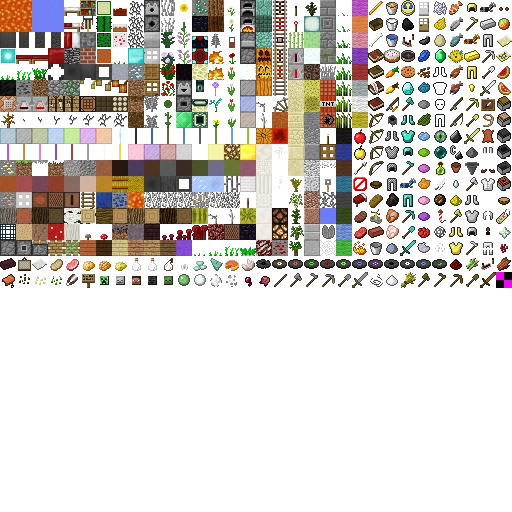
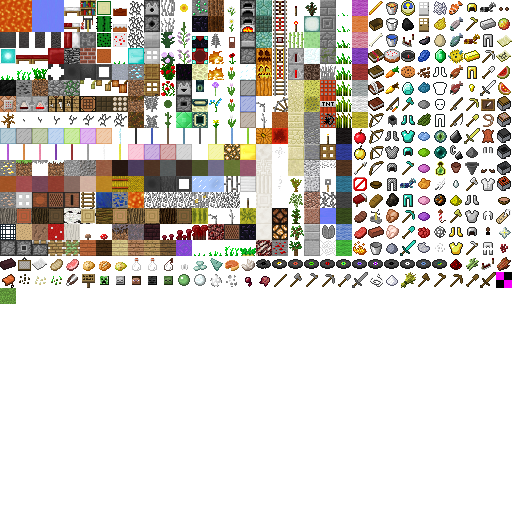
Fixed Texture Atlas & Basic Terrain Generation

diff --git a/scuff-minecraft/src/Engine/Chunks/ChunkGenerator.js b/scuff-minecraft/src/Engine/Chunks/ChunkGenerator.js
@@ -7,28 +7,54 @@ import { clamp } from '../Utils/Utils.js'
 export default class ChunkGenerator {
     /**
      * @param {string?} seed 
+     * @param {Chunk} chunk 
      * @param {number} offsetX
      * @param {number} offsetZ
      * @param {number} amplitude
      * @param {number} frequency  
      */
-   static GenerateSimplexNoise(seed, offsetX, offsetZ, amplitude=3, frequency=0.03) {
-       const noise = createNoise2D(typeof seed !== 'string' ? undefined : alea(seed))
-       const buffer = new Int32Array(Chunk.WIDTH * Chunk.LENGTH)
-   
-       let index = 0
+   static GenerateSimplexNoise(seed, chunk, offsetX, offsetZ, amplitude=3, frequency=0.03) {
+        seed = typeof seed !== 'string' ? undefined : alea(seed)
+        const noise3D = createNoise3D(seed)
+        const noise2D = createNoise2D(seed)
 
+        let index = 0
         for(let z = 0; z < Chunk.LENGTH; z++) {
-            for(let x = 0; x < Chunk.WIDTH; x++) {
-                const height = Math.round(noise((x + offsetX) * frequency, (z + offsetZ) * frequency) * amplitude) + amplitude
-                
-                buffer[index] = height
+            for(let y = 0; y < Chunk.HEIGHT; y++) {
+                for(let x = 0; x < Chunk.WIDTH; x++) {
+                    // const inside = Math.round(noise3D((x + offsetX) * frequency, y * frequency, (z + offsetZ) * frequency) * amplitude) + amplitude
+                    const surface = Math.round(noise2D((x + offsetX) * frequency, (z + offsetZ) * frequency) * amplitude) + amplitude
 
-                index++
+                    if(y >= Chunk.HEIGHT - surface) {
+                        chunk.blockIds[index] = 0
+                    } else if(y < (Chunk.HEIGHT - amplitude * 3)) {
+                        chunk.blockIds[index] = 3   
+                    } else if(y === Chunk.HEIGHT - surface - 1) {
+                        chunk.blockIds[index] = 2
+                    }
+
+                    // console.log(chunk.blockIds[index])
+                    index++
+                }
             }
         }
-       
-       return buffer
+
+        // const noise = createNoise2D(seed)
+        // const buffer = new Int32Array(Chunk.WIDTH * Chunk.LENGTH)
+    
+        // let index = 0
+
+        // for(let z = 0; z < Chunk.LENGTH; z++) {
+        //     for(let x = 0; x < Chunk.WIDTH; x++) {
+        //         const height = Math.round(noise((x + offsetX) * frequency, (z + offsetZ) * frequency) * amplitude) + amplitude
+                
+        //         buffer[index] = height
+
+        //         index++
+        //     }
+        // }
+        
+        // return buffer
     }
 }
 

diff --git a/scuff-minecraft/src/Engine/Scene.js b/scuff-minecraft/src/Engine/Scene.js
@@ -50,6 +50,8 @@ export default class Scene {
         this.chunkLength = length
         this.chunkVolume = width * length
 
+        seed = typeof seed !== 'string' ? Math.floor(Math.random() * 4294967297 - 2147483648).toString() : seed
+
         let index = 0
         for(let z = 0; z < length; z++) {
             for(let x = 0; x < width; x++) {
@@ -57,18 +59,22 @@ export default class Scene {
                 const offsetZ = z * Chunk.LENGTH
                 
                 const chunk = new Chunk(offsetX, offsetZ)
-                const heightMap = ChunkGenerator.GenerateSimplexNoise(seed, offsetX, offsetZ, amplitude, frequency)
                 
-                let heightMapIndex = 0
+
+                ChunkGenerator.GenerateSimplexNoise(seed, chunk, offsetX, offsetZ, amplitude, frequency)
+
+                // const heightMap = ChunkGenerator.GenerateSimplexNoise(seed, offsetX, offsetZ, amplitude, frequency)
+                
+                // let heightMapIndex = 0
 
                 chunk._sceneIndex = index
                 chunk.create()
     
-                for(let j = 0; j < Chunk.VOLUME; j++) {
-                    chunk._transformData[j * Chunk._transformRowSize + 1] = heightMap[heightMapIndex]
+                // for(let j = 0; j < Chunk.VOLUME; j++) {
+                //     chunk._transformData[j * Chunk._transformRowSize + 1] = heightMap[heightMapIndex]
     
-                    heightMapIndex++
-                }
+                //     heightMapIndex++
+                // }
     
                 // chunk culling is broken
                 // chunk.cullFaceTexture(this)

diff --git a/scuff-minecraft/src/Playground/Playground.js b/scuff-minecraft/src/Playground/Playground.js
@@ -32,7 +32,8 @@ export default function Playground(canvas, onLoad) {
     const scene = new Scene(canvas)
     const camera = new Perspective(75, window.innerWidth / window.innerHeight, 1, 100)
     // camera.position.set(1.5, 1.5, 1.5)
-    camera.position.set(30, 10, 60)
+    // camera.position.set(30, 10, 60)
+    camera.position.set(10, 20, 60)
 
     window.onresize = () => {
         camera.aspect = window.innerWidth / window.innerHeight
@@ -47,8 +48,10 @@ export default function Playground(canvas, onLoad) {
 
     // scene.generateFilledChunks(1, 1)
     scene.generateSimplexNoiseChunks({
-        seed: 'seed',
-        width: 8, length: 8,
+        // seed: 'seed',
+        width: 4, length: 4,
+        amplitude: 3,
+        frequency: 0.03
     })
 
     console.log(Engine)
@@ -73,7 +76,7 @@ const velocity = new Vector3(0, 0, 0)
  * @param {Camera} camera 
  */
 function PlayerControls(scene, camera) {
-    let speed = Engine.deltaTime * 5
+    let speed = Engine.deltaTime * 10
 
     if(Keyboard.keys.has('w')) {
         velocity.x -= camera.rotationMatrix[8]

diff --git a/scuff-minecraft/src/Engine/Geometry/Blocks.js b/scuff-minecraft/src/Engine/Geometry/Blocks.js
@@ -1,6 +1,6 @@
 // https://www.reddit.com/r/Blockbench/comments/1c1eq92/is_there_any_website_where_i_can_find_basic/
 // https://github.com/Mojang/bedrock-samples
-// https://minecraft.fandom.com/wiki/Blocks.png-atlas
+// https://minecraft.wiki/w/Textures-atlas
 
 import Block from "./Block"
 
@@ -17,7 +17,7 @@ export default class Blocks {
         ),
         new Block(
             'grass_block', Block.SOLID, 
-            [1, 10, 1, 10, 4, 10, 8, 5, 1, 10, 1, 10],
+            [1, 10, 1, 10, 0, 18, 8, 5, 1, 10, 1, 10],
         ),
         new Block(
             'stone_block', Block.SOLID, 

diff --git a/scuff-minecraft/src/Engine/Chunks/Chunk.js b/scuff-minecraft/src/Engine/Chunks/Chunk.js
@@ -15,7 +15,7 @@ import Scene from "../Scene"
  */
 export default class Chunk {
     static WIDTH = 16
-    static HEIGHT = 1
+    static HEIGHT = 16
     static LENGTH = 16
     static VOLUME = this.WIDTH * this.HEIGHT * this.LENGTH
 
